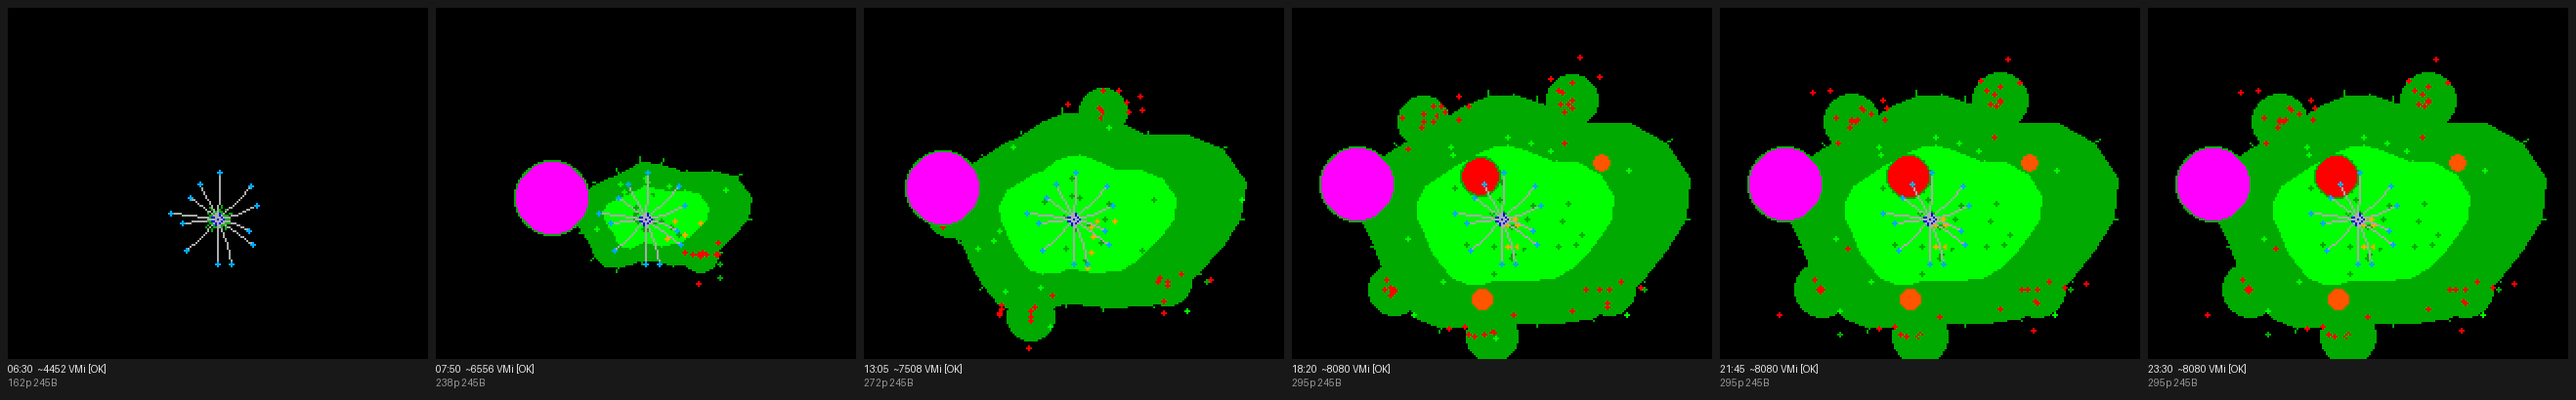
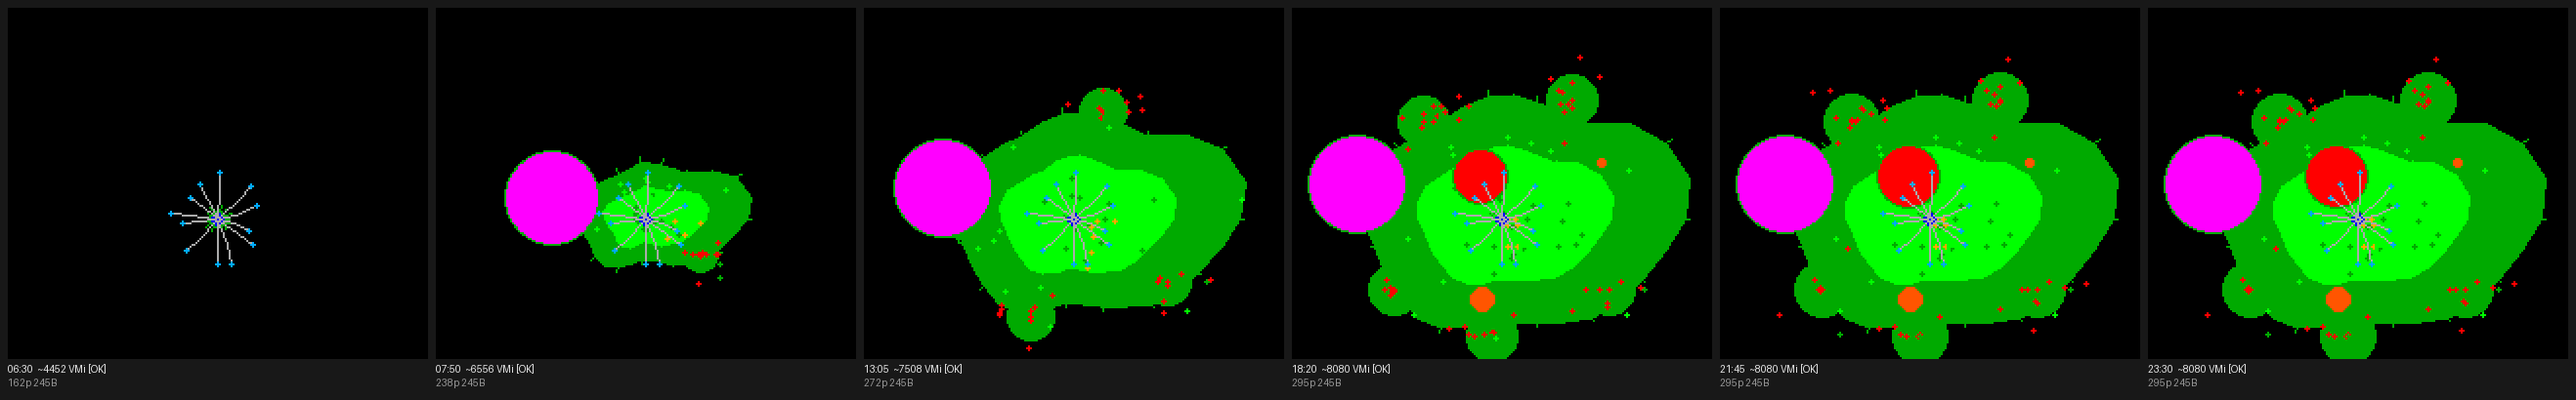
MossGrove: effort beads 1 + isqrt(mag), cap 24 (owner: more variance)
Under 4 + mag/30 cap 18 every everyday effort (mag < 30) sat on the 4 px
floor. sqrt steepens both ends: stairs 2 px, a hurry 3, a walk 8-11, a
~50-min run reaches the new 24 px cap. One native Math.sqrt per bead
(skipped at the cap); float32 sqrt truncation verified identical to isqrt
for every mag < 529. Saturated release probe (16 sqrt-path beads, max
cushion, 10 h root star) silent in the sim, 38.7/59.8 kB.

diff --git a/sketches/algos/moss_grove.py b/sketches/algos/moss_grove.py
@@ -45,6 +45,8 @@ saturated RELEASE frame is verified silent in the sim, which is the ground
 truth the proxy is not (docs/watchdog-debugging.md).
 """
 
+import math
+
 import daysoma as DS
 from daysoma import zone_color, zone_lut, place, dominant_zone, ZLUT, ACTIVE
 from daybuckets import px, py
@@ -90,13 +92,16 @@ def scl(v):
 # stalk flare on diagonal runs (both perpendicular components round toward
 # zero). Ports as (abs + d/2) / d with the sign re-applied.
 def bead_radius(mag):
-    """Effort-bead radius (final px, already scaled) from banked magnitude.
-    Gentle slope + high cap so long/hard efforts spread out in size (a 90-min
-    session reads clearly bigger than a 15-min one) while the floor stays put."""
-    bead = 4 + idiv(mag, 30)
-    if bead > 18:
-        bead = 18
-    return bead
+    """Effort-bead radius (final px, already scaled) from banked magnitude:
+    1 + isqrt(mag), cap 24 (owner, 2026-10: steeper on both ends -- under the
+    old 4 + mag/30 cap 18 every everyday effort sat on the 4 px floor). sqrt
+    spreads the small efforts (stairs 2, a hurry 3, a walk ~8-11) while a
+    ~50-min run still reaches the cap. The .mc takes Math.sqrt(mag).toNumber()
+    for mag < 529 (= 23^2; exact-squares are exact in float, so it truncates
+    the same as isqrt) -- see sketches/bead_size_compare.py."""
+    if mag >= 529:
+        return 24
+    return 1 + math.isqrt(mag)
 
 
 def rdiv(v, d):

diff --git a/sketches/bead_size_compare.py b/sketches/bead_size_compare.py
@@ -20,7 +20,7 @@ from day import synthetic_day
 from device import idiv
 
 
-def ship(mag):                      # today: 4 + mag/30, cap 18
+def old(mag):                       # pre-2026-10: 4 + mag/30, cap 18
     b = 4 + idiv(mag, 30)
     return 18 if b > 18 else b
 
@@ -36,8 +36,8 @@ def linear_steep(mag):              # 2 + mag/20, cap 24
 
 
 CURVES = [
-    ("ship 4+m/30 cap18", ship),
-    ("A 1+sqrt(m) cap24", sqrt_curve),
+    ("old 4+m/30 cap18", old),
+    ("A (ship) 1+sqrt(m) cap24", sqrt_curve),
     ("B 2+m/20 cap24", linear_steep),
 ]
 
